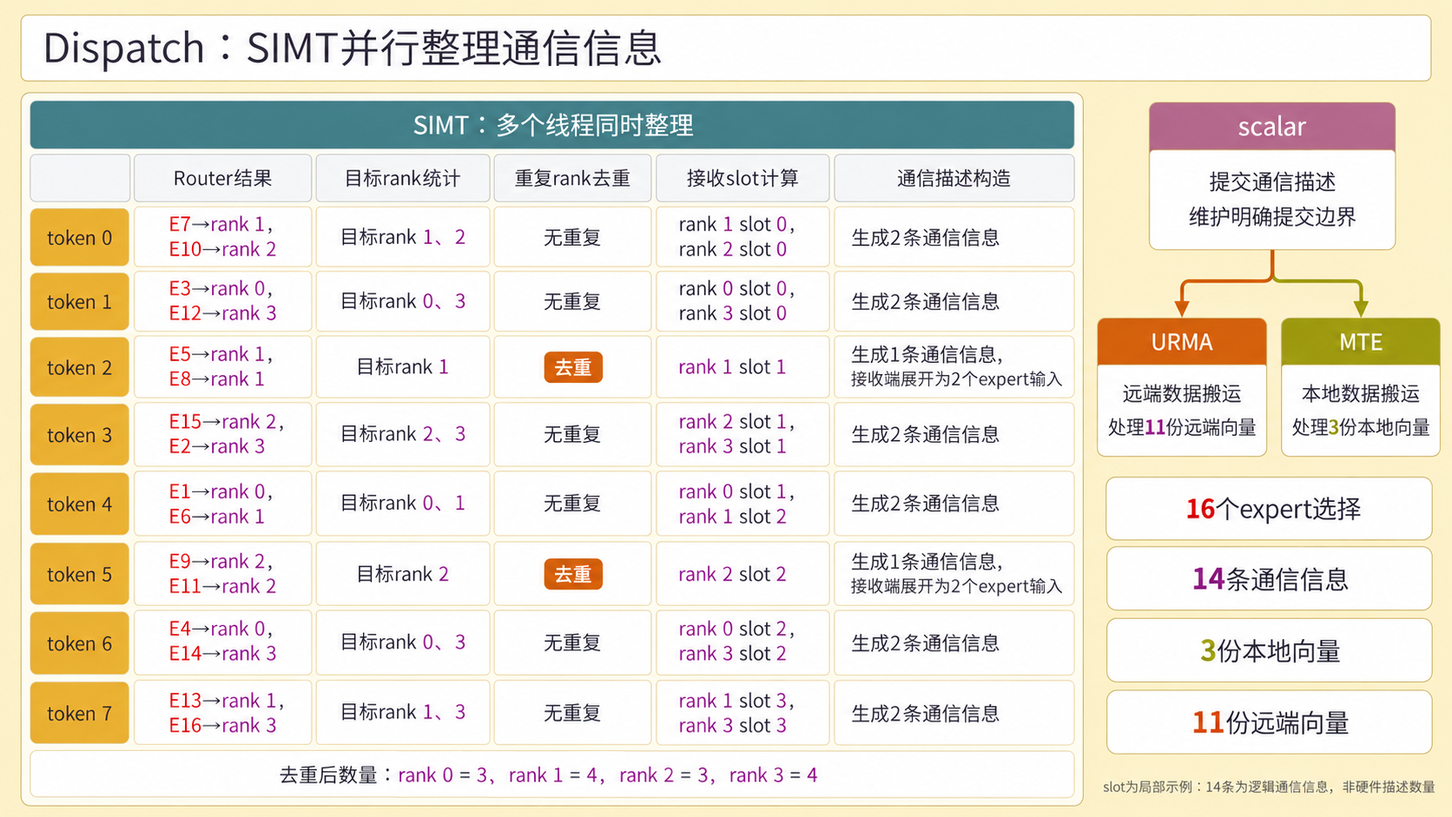
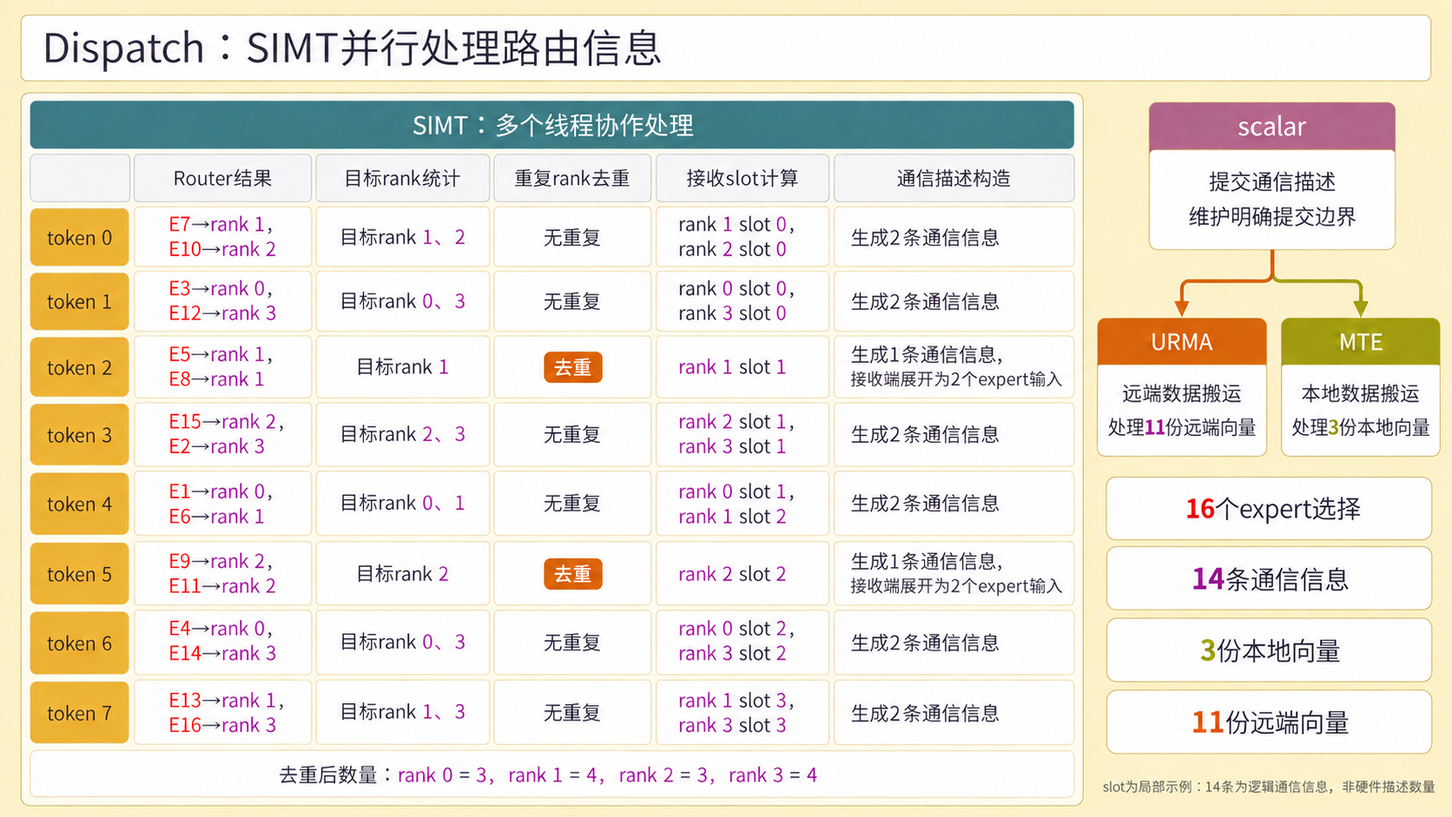
docs: refine SIMT article wording and thread-group illustrations

diff --git a/docs/ascend-articles/official-deepep-ascend-simt-communication-figure-spec-zh.md b/docs/ascend-articles/official-deepep-ascend-simt-communication-figure-spec-zh.md
@@ -512,96 +512,47 @@ token卡片文案：
 
 图4：4-rank Combine数据流。expert输出按来源rank返回rank 0；本地输出直接参与聚合，远端输出送回后在原始token处按top-k权重聚合。
 
-## 图5：为什么SIMT适合MoE通信
+## 图5：SIMT在MoE通信中的优势
 
 ### 目标
 
-用一张图回答第3章的核心问题：MoE通信前的整理工作为什么是“不规则但可并行”的，以及SIMT为什么契合这种工作形态。重点呈现三件事：
+展示MoE通信预处理中的线程组协作与组间并行，重点呈现三件事：
 
 1. 每个token的路由不同，需要不同分支；
-2. 多个线程可以执行同一套整理程序，分别处理不同token；
-3. 与SIMD相比，SIMT更自然地表达这种动态分支。
+2. 一个线程组协作处理一个token的top-k目标，多个线程组执行同一套路由处理程序；
+3. 同一rank重复时去重，本地与远端目标分别处理。
 
 ### 放置位置
 
-放在第3章第一段之后、三类优势列表之前。读者先通过这张图看到“token不同、线程并行、结果不同”的直观关系，再阅读结构契合、表达自然、并发友好的文字总结。
+放在第3章第一段之后、SIMD与SIMT对比文字之前。先展示“组内协作、组间并行”的直观关系，再解释SIMT的通信并行粒度与三类优势。
 
 ### 画面结构
 
-整体分为三个区域：
+保留上方四个程序步骤和下方四行token示例，不再放置底部SIMD/SIMT特性对比卡片。保留内容在16:9画布内重新排布，避免底部留下大块空白。
 
-1. 上方主体：4行token的并行整理过程；
-2. 中间阶段卡：SIMT程序与4个线程；
-3. 底部对比条：SIMD与SIMT的执行形态差异。
-
-上方主体采用四行三列：
-
-1. 左列：路由结果；
-2. 中列：SIMT线程与分支；
-3. 右列：整理后的通信信息。
+四行示例从左到右展示路由结果、线程组与分支、生成的通信信息，逐行对齐。
 
 ### 具体文案
 
-主标题：为什么SIMT适合MoE通信
+主标题：SIMT在MoE通信中的优势
 
-左列标题：路由结果
+程序步骤：读取路由 → 比较rank → 判断是否重复 → 生成通信信息
 
-左列卡片文案：
+共享标签：SIMT：同一程序，多个线程组
 
-- token 0：rank 1、rank 2
-- token 1：rank 0、rank 3
-- token 2：rank 1、rank 1
-- token 3：rank 2、rank 3
-
-中列标题：SIMT：同一程序，多个线程
-
-中列卡片文案：
-
-- 线程0 / token 0：两个目标rank不同，两条分支
-- 线程1 / token 1：一个本地rank，一个远端rank
-- 线程2 / token 2：两个目标rank相同，去重后只保留一份
-- 线程3 / token 3：两个目标rank不同，两条分支
-
-程序步骤标签：
-
-- 读取路由
-- 比较rank
-- 判断是否重复
-- 生成通信信息
-
-右列标题：整理后的通信信息
-
-右列卡片文案：
-
-- token 0：发送到rank 1和rank 2
-- token 1：本地保留，另发送到rank 3
-- token 2：只发送一份到rank 1
-- token 3：发送到rank 2和rank 3
-
-底部对比条标题：执行形态对比
-
-SIMD卡片文案：
-
-- SIMD
-- 一条指令处理连续数据
-- 适合规则、少分支的计算
-
-SIMT卡片文案：
-
-- SIMT
-- 多个线程执行同一程序
-- 每个线程可走不同分支
-- 适合token路由各不相同的整理工作
+| 路由结果 | 线程组 | 分支说明 | 通信信息 |
+| --- | --- | --- | --- |
+| token 0：rank 1、rank 2 | 线程组0 | 两个目标rank不同，两条分支 | 发送到rank 1和rank 2 |
+| token 1：rank 0、rank 3 | 线程组1 | 一个本地rank，一个远端rank | 本地保留，另发送到rank 3 |
+| token 2：rank 1、rank 1 | 线程组2 | 两个目标rank相同，去重后只保留一份 | 只发送一份到rank 1 |
+| token 3：rank 2、rank 3 | 线程组3 | 两个目标rank不同，两条分支 | 发送到rank 2和rank 3 |
 
 ### 布局细节
 
-- 上方主体占画面高度约70%，底部对比条占约30%。
-- 四行token从上到下排列，左列、中列、右列保持水平对齐，让读者能沿一行看到“路由结果、线程分支、通信信息”的对应关系。
-- 中列使用一个浅青蓝色大卡片承载4个线程行，卡片顶部放置4个程序步骤标签，表示所有线程执行同一套程序。
-- token 2所在行使用橙色“去重”徽标，突出同一rank重复时只生成一份通信信息。
-- 左列token卡片使用黄色，中列SIMT卡片使用青蓝色，右列通信信息卡片使用绿色。
-- 底部对比条使用两个并排卡片，SIMD使用浅灰色，SIMT使用浅青蓝色。
-- 图中不绘制复杂交叉线，行与行之间保持独立，突出“多个线程并行处理不同token”。
+- 线程组标签适当加宽，完整显示“线程组0”至“线程组3”，不换行或遮挡相邻文字。
+- 四行高度和间距均衡，保留程序步骤、路由、分支说明、结果之间的对应关系。
+- token 2保留橙色“去重”徽标。
+- 不新增比较卡片、页脚、示例或图例，不改变四条路由和输出关系。
 
 ### 颜色语义
 
@@ -610,7 +561,6 @@ SIMT卡片文案：
 - SIMT区域：青蓝色 #458588
 - 去重徽标：橙色 #d65d0e
 - 通信信息卡片：绿色 #98971a
-- SIMD卡片：浅灰 #ebdbb2
 - 主文字：深灰 #3c3836
 - 次文字：浅灰 #665c54
 
@@ -618,13 +568,14 @@ SIMT卡片文案：
 
 - 不出现AIV、lane、scalar、URMA、MTE、slot、通信描述等实现细节。
 - 不出现WQE、SGE、SQ、CQ、queue、doorbell、Jetty、Channel、staged transport、payload、hidden、metadata。
-- 不把SIMT画成单独硬件模块，只表达“多个线程执行同一程序”的执行形态。
-- 不用长句填充卡片，所有文案保持短标签化。
+- 不把一个token标为由单个线程独立处理，不指定线程组大小或固定warp数量。
+- 不把SIMT画成单独硬件模块，只表达线程组执行同一程序的形态。
+- 不恢复底部SIMD/SIMT特性卡片。
 - 图注不描述画面构图。
 
 ### 图注
 
-图5：为什么SIMT适合MoE通信。不同token的路由结果不同，多个线程可以执行同一套整理程序并分别走不同分支；相比处理连续数据的SIMD，SIMT更贴近这种动态、分支密集的通信整理工作。
+图5：多个线程组执行同一套路由处理程序，组内协作处理一个token的top-k目标，组间并行处理不同token。重复rank需要去重，本地与远端结果也需要不同处理。
 
 ## 图6：Dispatch的SIMT并行流程
 
@@ -635,7 +586,7 @@ SIMT卡片文案：
 1. token路由可独立处理，线程组织为示意；统计和位置计算需要协作；
 2. token 2和token 5命中重复rank，去重后只生成一份通信信息；
 3. slot由同一rank内的前序token数量动态决定；
-4. SIMT负责整理通信信息，scalar负责提交，URMA/MTE负责数据搬运。
+4. SIMT负责通信预处理，scalar负责提交，URMA/MTE负责数据搬运。
 
 ### 放置位置
 
@@ -659,13 +610,13 @@ SIMT卡片文案：
 2. URMA：远端数据搬运；
 3. MTE：本地数据搬运。
 
-主矩阵上方放置一个横向标签“SIMT：多个线程同时整理”，覆盖前5列，明确这些阶段由SIMT完成。
+主矩阵上方放置一个横向标签“SIMT：多个线程协作处理”，覆盖前5列，明确这些阶段由SIMT完成。
 
 ### 具体文案
 
-主标题：Dispatch：SIMT并行整理通信信息
+主标题：Dispatch：SIMT并行处理路由信息
 
-左侧主矩阵标题：SIMT：多个线程同时整理
+左侧主矩阵标题：SIMT：多个线程协作处理
 
 列标题：
 
@@ -748,7 +699,7 @@ SIMT卡片文案：
 
 ### 图注
 
-图6：Dispatch的SIMT并行流程。8个token并行整理路由，去重后形成14份向量关系。slot只示意局部顺序，硬件描述数量取决于实际实现；scalar维护提交边界，URMA和MTE分别负责远端与本地搬运。
+图6：Dispatch的SIMT并行流程。8个token并行处理路由，去重后形成14份向量关系。slot只示意局部顺序，硬件描述数量取决于实际实现；scalar维护提交边界，URMA和MTE分别负责远端与本地搬运。
 
 ## 图7：Combine的SIMT流水线
 
@@ -786,7 +737,7 @@ SIMT卡片文案：
 - 当前task：数据归约
 - 下一task：信息已准备
 
-这里的task是同一发送rank内的相邻任务，不把它们固定对应为来自rank 1或rank 2的分组。状态条说明预先整理下一任务的信息，并不承诺SIMT与SIMD在同一执行资源上同时执行。
+这里的task是同一发送rank内的相邻任务，不把它们固定对应为来自rank 1或rank 2的分组。状态条说明预先解析下一任务的返回信息，并不承诺SIMT与SIMD在同一执行资源上同时执行。
 
 ### 最终聚合文案
 
@@ -819,7 +770,7 @@ rank 0等待所需结果到齐，再按原始token聚合并写回输出。
 
 ### 图注
 
-图7：Combine将SIMT返回信息整理与SIMD局部归约组成流水线，数据和描述准备就绪后由scalar提交远端传输；本地结果直接保留，最终在原始token所在rank聚合。
+图7：Combine将SIMT返回信息解析与SIMD局部归约组成流水线，数据和描述准备就绪后由scalar提交远端传输；本地结果直接保留，最终在原始token所在rank聚合。
 
 ### 准确性依据
 
@@ -833,7 +784,7 @@ rank 0等待所需结果到齐，再按原始token聚合并写回输出。
 | 图2 | Router动态路由带来的通信变化 | 第1章动态选择段后 | 直观说明通信计划必须运行时生成 |
 | 图3 | 4-rank Dispatch数据流 | 第2章路由表后 | 将8-token case从路由结果讲到expert输入 |
 | 图4 | 4-rank Combine数据流 | 第2章返回关系表后 | 将8-token case从expert输出讲到token输出 |
-| 图5 | 为什么SIMT适合MoE通信 | 第3章开头 | 先给出执行形态差异，再解释适配原因 |
+| 图5 | SIMT在MoE通信中的优势 | 第3章开头 | 先展示线程组协作与组间并行，再解释适配原因 |
 | 图6 | Dispatch的SIMT并行流程 | 第4章开头 | 先看并行处理方式，再拆阶段讲 |
 | 图7 | Combine的SIMT流水线 | 第5章开头 | 先看流水线，再讲task和重叠 |
 
@@ -948,29 +899,28 @@ Render eight cards “token 0输出” through “token 7输出”, each labeled
 
 ### 图5提示词
 
-Create a flat, clean 16:9 infographic titled “为什么SIMT适合MoE通信”. Use the same Gruvbox Light style, white rounded cards, thin borders, and no bold text.
+Create a flat, clean 16:9 infographic titled exactly “SIMT在MoE通信中的优势”. Use the approved Gruvbox Light style: solid cream #fbf1c7 background, white #ffffff rounded cards, thin #d5c4a1 borders, dark #3c3836 text, Noto Sans SC / Inter regular/light typography including title. No bold, gradients, shadows, texture, 3D or watermark.
+
+Place four shared program steps above the example rows: “读取路由” → “比较rank” → “判断是否重复” → “生成通信信息”. Shared label exactly “SIMT：同一程序，多个线程组”.
 
 Create four aligned rows showing these exact transformations:
 
-- token 0：rank 1、rank 2 → 线程0 / token 0：两个目标rank不同，两条分支 → 发送到rank 1和rank 2
-- token 1：rank 0、rank 3 → 线程1 / token 1：一个本地rank，一个远端rank → 本地保留，另发送到rank 3
-- token 2：rank 1、rank 1 → 线程2 / token 2：两个目标rank相同，去重后只保留一份 → 只发送一份到rank 1
-- token 3：rank 2、rank 3 → 线程3 / token 3：两个目标rank不同，两条分支 → 发送到rank 2和rank 3
+- token 0：rank 1、rank 2 → 线程组0 / token 0：两个目标rank不同，两条分支 → 发送到rank 1和rank 2
+- token 1：rank 0、rank 3 → 线程组1 / token 1：一个本地rank，一个远端rank → 本地保留，另发送到rank 3
+- token 2：rank 1、rank 1 → 线程组2 / token 2：两个目标rank相同，去重后只保留一份 → 只发送一份到rank 1
+- token 3：rank 2、rank 3 → 线程组3 / token 3：两个目标rank不同，两条分支 → 发送到rank 2和rank 3
 
-Place the shared program steps above the four threads: “读取路由”, “比较rank”, “判断是否重复”, “生成通信信息”. Add an orange “去重” badge on token 2.
+Add an orange “去重” badge on token 2. Widen thread-group labels just enough to fit without wrapping or overlap. Do not specify a thread count, warp size or fixed group size. Each group cooperates on one token; groups process different tokens in parallel.
 
-At the bottom, show two comparison cards:
-
-- SIMD：一条指令处理连续数据 / 适合规则、少分支的计算
-- SIMT：多个线程执行同一程序 / 每个线程可走不同分支 / 适合token路由各不相同的整理工作
+Do not include bottom SIMD/SIMT feature comparison cards or any new footer, legend or example. Fill the canvas with the program steps and four-row region using balanced spacing and compact aligned cards, without a large blank bottom band.
 
 Use token #d79921, rank #8f3f71, SIMT #458588, dedup badge #d65d0e, communication information #98971a. Do not show AIV, lane, scalar, URMA, MTE, slot, or communication descriptors.
 
 ### 图6提示词
 
-Create a high-density flat 16:9 infographic titled “Dispatch：SIMT并行整理通信信息”. Use the same Gruvbox Light style, white rounded cards, thin borders, and no bold text.
+Create a high-density flat 16:9 infographic titled “Dispatch：SIMT并行处理路由信息”. Use the same Gruvbox Light style, white rounded cards, thin borders, and no bold text.
 
-Create an 8-row by 5-stage matrix. The header above the matrix must say “SIMT：多个线程同时整理”. Column headers are “Router结果”, “目标rank统计”, “重复rank去重”, “接收slot计算”, “通信描述构造”.
+Create an 8-row by 5-stage matrix. The header above the matrix must say “SIMT：多个线程协作处理”. Column headers are “Router结果”, “目标rank统计”, “重复rank去重”, “接收slot计算”, “通信描述构造”.
 
 Render the exact rows:
 
@@ -998,7 +948,7 @@ Use exactly 8 token rows, without merging, omitting or duplicating any. This is 
 Use case: infographic-diagram
 Asset type: figure 7 of the same Chinese technical article, a precise Combine pipeline.
 Global approved style: 16:9, Gruvbox Light. Solid cream #fbf1c7, white cards #ffffff, dark text #3c3836, secondary #665c54, hairline borders #d5c4a1, Noto Sans SC / Inter Light or Regular ONLY including title. Flat rounded cards, no bold, gradient, shadow, texture or 3D. SIMT #458588, scalar #b16286, URMA #d65d0e, MTE #98971a, token #d79921, expert #cc241d, rank #8f3f71.
-Title exactly "Combine：SIMT流水线整理返回结果", medium regular font, compact margins. Keep 16:9, readable text, no complex crossing wires.
+Title exactly "Combine：SIMT流水线解析返回信息", medium regular font, compact margins. Keep 16:9, readable text, no complex crossing wires.
 
 LEFT 22%: an area headed "结果来源（业务视角）", four stacked cards:
 "rank 1" / "5个expert输出"
@@ -1042,7 +992,7 @@ Constraints: readable precise text, no duplicated nodes, no made-up labels. No A
 | 图2 | [deepep-ascend-simt-router-dynamic-flow.png](../ascend-assets/deepep-ascend-simt-router-dynamic-flow.png) | 两步路由、接收token和计数 |
 | 图3 | [deepep-ascend-simt-dispatch-case.png](../ascend-assets/deepep-ascend-simt-dispatch-case.png) | 8条路由、14份向量、16个expert输入 |
 | 图4 | [deepep-ascend-simt-combine-case.png](../ascend-assets/deepep-ascend-simt-combine-case.png) | 16个expert输出、3本地、13远端、8输出 |
-| 图5 | [deepep-ascend-simt-parallel-routing.png](../ascend-assets/deepep-ascend-simt-parallel-routing.png) | 4条示例路由、重复rank去重、SIMD/SIMT对比 |
+| 图5 | [deepep-ascend-simt-parallel-routing.png](../ascend-assets/deepep-ascend-simt-parallel-routing.png) | 4条示例路由、线程组协作、重复rank去重；已移除底部特性对比 |
 | 图6 | [deepep-ascend-simt-dispatch-parallel-flow.png](../ascend-assets/deepep-ascend-simt-dispatch-parallel-flow.png) | 8行5阶段、slot、token 2/5去重、提交与搬运分工 |
 | 图7 | [deepep-ascend-simt-combine-pipeline.png](../ascend-assets/deepep-ascend-simt-combine-pipeline.png) | 来源分组、SIMT/SIMD/scalar分工、本地绕过远端传输 |
 
@@ -1082,13 +1032,24 @@ Change ONLY color styling of this accurate Combine infographic to the approved G
 Replace the near-white outer background with flat solid cream #fbf1c7. Main panels and cards white #ffffff. All borders hairline #d5c4a1; title regular/light #3c3836, not bold. Use muted purple #8f3f71 for rank groups, olive #98971a for local, teal #458588 for remote, orange #d65d0e for aggregation, mustard #d79921 for token output, red #cc241d for expert. No gradient/shadow/texture.
 Data invariants: rank 0 token 1/E3,4/E1,6/E4; rank 1 token 0/E7,2/E5,2/E8,4/E6,7/E13; rank 2 token 0/E10,3/E15,5/E9,5/E11; rank 3 token 1/E12,3/E2,6/E14,7/E16. Counts 16 expert outputs, 3 local, 13 remote, 8 token outputs. Preserve every return relationship.
 
-#### 图5局部修订
+#### 图5局部修订（2026-10-19，以此版为准）
 
 Use case: precise-object-edit
-Change ONLY typography and flat visual styling of this figure to match the approved Gruvbox Light article specification. Preserve ALL row texts, all 4 rows, all mappings, bottom SIMD/SIMT comparison, badges and arrows exactly.
-Replace the large bold title with a much smaller REGULAR-weight title "为什么SIMT适合MoE通信" in dark gray #3c3836. All fonts including SIMD/SIMT headings must be regular/light, never bold. Make background a uniform cream #fbf1c7, cards white #ffffff, hairline borders #d5c4a1; flat pale accent fills only, no gradients, texture, shadows or 3D.
-Add one short regular label above the thread column, without covering existing text: "SIMT：同一程序，多个线程".
-Keep all other content and geometry invariant.
+Edit target: the supplied existing Gruvbox Light infographic. Apply ONLY the following user-approved changes. Preserve all 4 token/rank mappings, conditional explanations, arrows, icons, semantic colors, regular/light typography, cream background and rounded white card style.
+
+1. Replace title with exactly "SIMT在MoE通信中的优势".
+2. REMOVE the entire bottom comparison section: both the SIMD card and the SIMT card, including their icons and all their feature text. There must be NO SIMD/SIMT feature comparison cards anywhere in the resulting image.
+3. Keep the upper four program-step cards exactly "读取路由" → "比较rank" → "判断是否重复" → "生成通信信息".
+4. Replace the little shared label with exactly "SIMT：同一程序，多个线程组".
+5. Replace the four narrow labels "线程0", "线程1", "线程2", "线程3" with exactly "线程组0", "线程组1", "线程组2", "线程组3". Widen those label cards just enough to fit without wrapping or overlap. Do NOT specify thread counts, warp size or any fixed group size.
+6. Keep all four example rows exactly:
+token 0: rank 1、rank 2 → 线程组0 → "token 0：两个目标rank不同，两条分支" → "发送到 rank 1 和 rank 2".
+token 1: rank 0、rank 3 → 线程组1 → "token 1：一个本地rank，一个远端rank" → "本地保留，另发送到 rank 3".
+token 2: rank 1、rank 1 → 线程组2 → "token 2：两个目标rank相同，去重后只保留一份" with orange "去重" badge → "只发送一份到 rank 1".
+token 3: rank 2、rank 3 → 线程组3 → "token 3：两个目标rank不同，两条分支" → "发送到 rank 2 和 rank 3".
+7. Retain a 16:9 landscape canvas. Reflow ONLY the retained upper content to fill the available height neatly: enlarge the four-row region and use balanced spacing, without leaving the large blank area where the bottom cards were removed. Keep all rows aligned and compact. No new sections, footers, examples, legends, decoration or text.
+
+Color/style invariants: flat #fbf1c7 background, white #ffffff cards, thin #d5c4a1 borders, regular/light Noto Sans SC/Inter, dark #3c3836 text, mustard tokens, purple rank chips, teal SIMT accents, orange dedup badge, green output accents. No bold, shadows, gradients, 3D or watermark.
 
 #### 图6局部修订
 
@@ -1096,7 +1057,7 @@ Use case: precise-object-edit
 Edit the supplied 8-row Dispatch matrix. Preserve all eight row labels, all expert/rank mappings, ALL slot values, all counts, role cards, layout and arrows exactly.
 ONE critical data correction: in row "token 2", final column "通信描述构造", change "生成2条通信信息" to exactly "生成1条通信信息". Keep its second line "接收端展开为2个expert输入". Row "token 5" already correctly has "生成1条通信信息"; preserve it.
 Put the word "去重" in an orange #d65d0e small badge in the token 2 and token 5 third-stage cells, without changing any adjacent text.
-Make title "Dispatch：SIMT并行整理通信信息" regular/light typography, not bold. Make all fills flat (no gradients); maintain the approved Gruvbox Light #fbf1c7 background, white cards, #d5c4a1 thin borders. Do not add, remove, reorder, duplicate or alter any token row. Exact data accuracy is critical.
+Make title "Dispatch：SIMT并行处理路由信息" regular/light typography, not bold. Make all fills flat (no gradients); maintain the approved Gruvbox Light #fbf1c7 background, white cards, #d5c4a1 thin borders. Do not add, remove, reorder, duplicate or alter any token row. Exact data accuracy is critical.
 
 #### 图7局部修订
 
@@ -1109,10 +1070,35 @@ Set title and ALL section headers to REGULAR or LIGHT sans-serif weight. No bold
 - 同一token的重复目标rank去重，只减少向量发送，expert输入仍需展开。
 - 第2章数量仅来自rank 0的8个token；其他来源rank的计数不在图中。
 - slot是局部顺序示例，14条通信信息是逻辑发送关系，不保证相同硬件描述数量。
-- Combine数值归约使用SIMD，SIMT整理返回信息并构造描述；scalar提交属于单独边界。
+- Combine数值归约使用SIMD，SIMT解析返回信息并构造描述；scalar提交属于单独边界。
 - 结果来源分组不是实际固定task数量；发送端按原始token所在的返回目标划分批次。
 - 权重聚合是模型业务；权重可以提前应用，Combine归约已加权结果。
 - 性能表核对[官方README](https://github.com/deepseek-ai/DeepEP-Ascend#performance)，排除最终后处理，不作为SIMT相对SIMD的独立加速比。
+
+## 2026-10-19定向修订记录
+
+本次只实施用户敲定的7项优化：第3章标题、线程组表述与通信并行粒度补充，通信预处理术语，一分钟概览，以及Combine流水执行段落的适度压缩。正文保留task交错执行、各执行单元分工及局部归约与最终聚合的区别，并检查前后衔接。
+
+图片仍使用内置imagegen，延续Gruvbox Light既定风格，覆盖原资产路径：图5删除底部特性卡片、改为线程组；图6只替换主标题与SIMT横幅；图7只替换主标题。图1—4、案例数据与本文件后续“两rank内部分析”均不改动。上方逐图规格与生成提示词已同步为当前版本。
+
+### 图6本次实际编辑提示词
+
+Use case: text-localization
+Edit ONLY TWO text areas in the supplied existing Dispatch matrix. Everything else is immutable.
+1. Replace the main title "Dispatch：SIMT并行整理通信信息" with exactly "Dispatch：SIMT并行处理路由信息".
+2. Replace the teal banner "SIMT：多个线程同时整理" with exactly "SIMT：多个线程协作处理".
+
+Preserve all other pixels and composition as closely as possible: all E IDs, rank IDs, all 8 token rows, 5 stage headers, every slot, every number, every badge, all scalar/URMA/MTE cards and arrows, summary counts and footer. Do not reflow the matrix, add/delete/reorder/duplicate rows, or revise wording elsewhere.
+Critical invariants: token 2 and token 5 both generate 1 communication information entry, both have dedup orange badges; all other tokens generate 2. Counts remain 16,14,3,11. The per-rank count footer remains rank 0=3,rank 1=4,rank 2=3,rank 3=4.
+Keep exact Gruvbox Light palette and flat style, light/regular fonts (including the new title), original 16:9 landscape. No new labels, no new effects, no new color choices.
+
+### 图7本次实际编辑提示词
+
+Use case: text-localization
+In the supplied existing Combine infographic, change ONLY the main title from "Combine：SIMT流水线整理返回结果" to exactly "Combine：SIMT流水线解析返回信息".
+
+All other contents and geometry are immutable: preserve the source-rank cards (rank 1:5, rank 2:4, rank 3:4, rank 0 local:3), the SIMT and SIMD+MTE tracks, scalar/URMA cards, every arrow, the local bypass, the entire pipeline illustration, footer and all 16/3/13/8 counts. Do not remove, add, reorder or rename any node, step or timeline bar.
+Preserve regular/light font weight, exact existing Gruvbox Light color palette and flat styling. Keep 16:9. Fit the new title naturally on the same top line. Do not alter any other text or introduce gradients, shadows, icons or decoration.
 
 ## 内部分析：两个rank的通信往返与主动方
 
